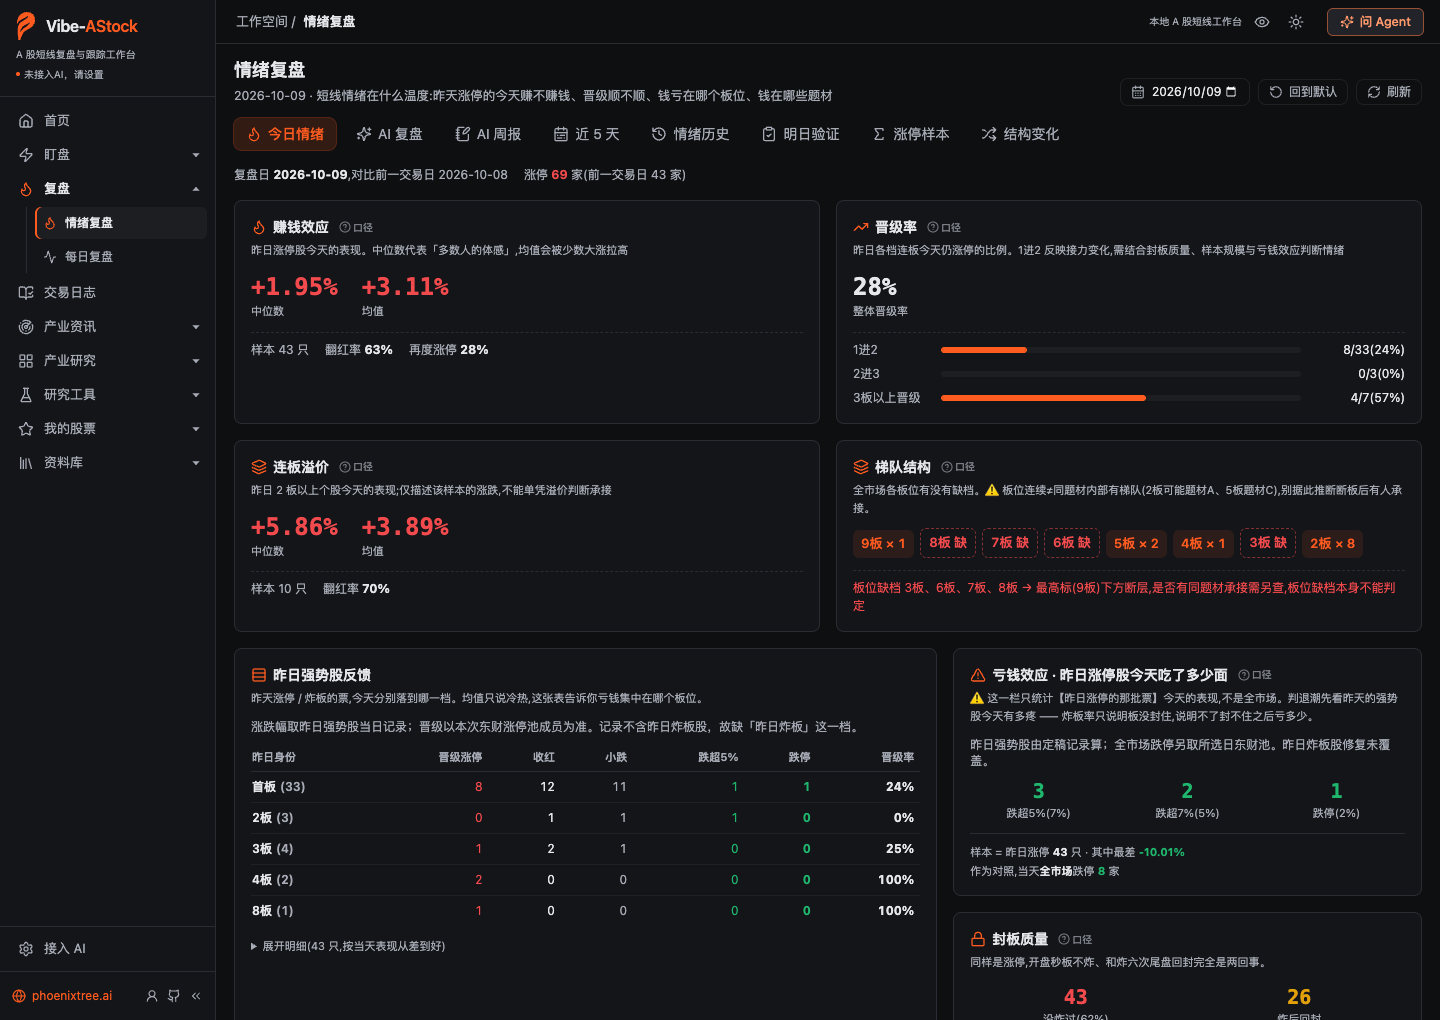
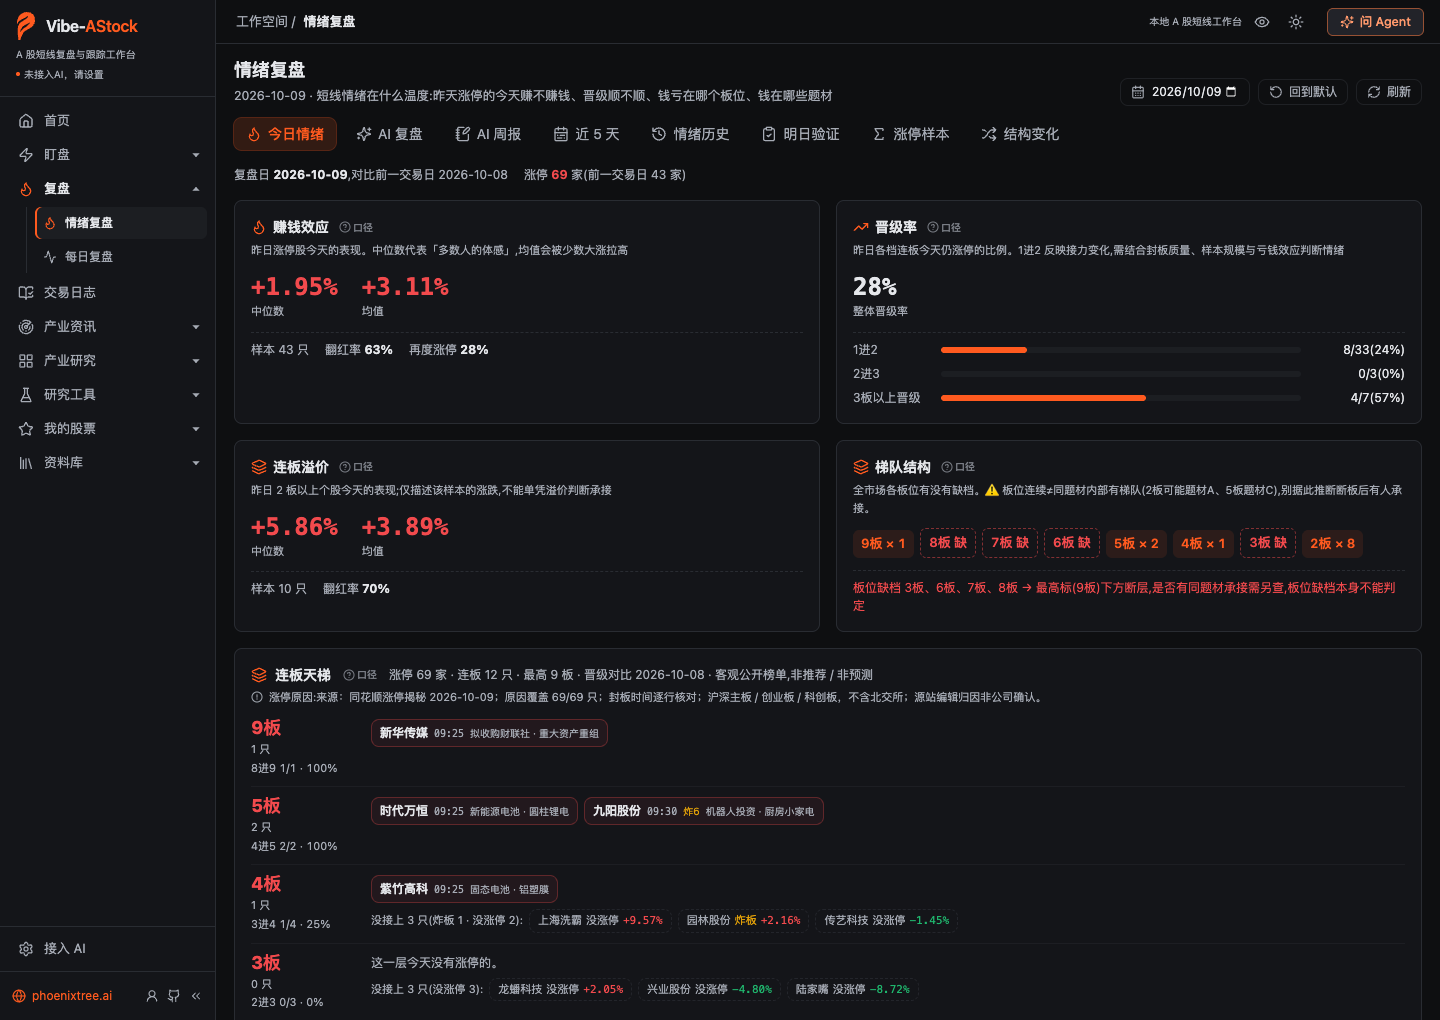
docs: README 补连板天梯、题材轮动截图与功能表说明，重拍今日情绪
- 功能表「情绪复盘」「提醒」两行补上连板天梯、题材轮动、盘前提醒（中英）
- 截图区加一行：连板天梯、题材轮动；今日情绪主图重拍（新版多了连板天梯）
- 截图说明补两张新图和拍摄情况

diff --git a/README_en.md b/README_en.md
@@ -54,6 +54,10 @@ Sentiment review · Today: whether yesterday's limit-up names made money today, 
 
 <table>
 <tr>
+<td width="50%" valign="top"><img src="assets/screenshots/2026-10-10/shortline-ladder.png" alt="Board ladder"><br><b>Board ladder</b>: who is at each streak height, how many names one level down yesterday made it up, and whether the rest hit limit-down, broke the seal, or never reached limit-up today</td>
+<td width="50%" valign="top"><img src="assets/screenshots/2026-10-10/shortline-rotation.png" alt="Theme rotation"><br><b>Theme rotation</b>: limit-up counts and ranks for each theme over the last 5 trading days, with streaks, returns after a gap, and first appearances marked; it describes the past and makes no forecast</td>
+</tr>
+<tr>
 <td width="50%" valign="top"><img src="assets/screenshots/2026-10-10/watch-live.png" alt="Watch · Live moves"><br><b>Watch · Live moves</b>: live readings and intraday moves for holdings, the watchlist, and yesterday's ladder (captured on a weekend, so it shows the market closed)</td>
 <td width="50%" valign="top"><img src="assets/screenshots/2026-10-10/watch-intraday.png" alt="Watch · Auction &amp; intraday"><br><b>Watch · Auction &amp; intraday</b>: how yesterday's limit-up names did in the auction, and the sentiment path across six snapshots</td>
 </tr>
@@ -121,7 +125,7 @@ The sidebar has 10 primary sections; those with several pages fold them into a s
 <tr><td nowrap>Home</td><td nowrap>—</td><td>China and global indices, your watchlist, and your holdings (market value, holdings P&amp;L, today's P&amp;L, prices refreshing on their own while markets are open) first; chat with AI below, and open features from the grouped directory</td></tr>
 <tr><td nowrap>Watch</td><td nowrap>Live moves</td><td>During the session: your holdings and watchlist (price, today's change, unrealized P&amp;L %), yesterday's limit-up ladder (how each name is doing today and whether it is sealed again), the top ten movers among stocks above 50 billion yuan in market cap, and yesterday's top ten by turnover; a move of 1.5% or more within 3 minutes is logged as a surge or drop, and touching or leaving the limit-up price as sealed or opened, with filters by size and scope. Refreshes on its own while the page is open and stops when you switch away</td></tr>
 <tr><td nowrap>Watch</td><td nowrap>Auction &amp; intraday</td><td>How yesterday's limit-up names opened in the 09:25 auction (median, share opening higher, by board level, the highest streak), the sentiment path across six snapshots (09:25 / 09:35 / 10:00 / 11:30 / 14:00 / 15:00: the median move of yesterday's limit-ups plus market-wide limit-ups, failed seals, and limit-downs at that moment), and last night's next-day checks against intraday readings. Snapshots are saved automatically at each time; a missed one cannot be filled in later</td></tr>
-<tr><td nowrap>Review</td><td nowrap>Sentiment review</td><td>How hot short-term sentiment is: the money-making effect, promotion rates, the streak premium, gaps in the board ladder, how yesterday's strong names did today, seal quality, the theme tree, and first-board names; an AI review written in five parts (sentiment, money, themes, the dragon-tiger list, leading names) plus a summary, with every number and citation checked by the app, the cited evidence one click away, and suggested conditions you can add to next-day checks in one click; plus the last 5 days, sentiment history, next-day checks (write conditions the night before, checked automatically after the next close), limit-up sample stats, and structural shifts</td></tr>
+<tr><td nowrap>Review</td><td nowrap>Sentiment review</td><td>How hot short-term sentiment is: the money-making effect, promotion rates, the board ladder, the streak premium, gaps in the ladder, how yesterday's strong names did today, seal quality, the theme tree, and first-board names; an AI review written in five parts (sentiment, money, themes, the dragon-tiger list, leading names) plus a summary, with every number and citation checked by the app, the cited evidence one click away, and suggested conditions you can add to next-day checks in one click; plus the last 5 days (theme heat, theme rotation, and the lineage of leading names), sentiment history, next-day checks (write conditions the night before, checked automatically after the next close), limit-up sample stats, and structural shifts</td></tr>
 <tr><td nowrap>Review</td><td nowrap>Daily review</td><td>Where the market stands at a glance: breadth, turnover, short-term sentiment (limit-ups / limit-downs / failed seals, how yesterday's limit-ups did today, promotion rates, limit-up streaks), where the indices sit over the longer term, margin balance, equity vs. bond yields, sector fund flows, and the Dragon-Tiger list; limit-up stocks grouped by industry and compared with the previous two trading days</td></tr>
 <tr><td nowrap>Trade journal</td><td nowrap>—</td><td>Log each of your A-share trades (trades with fills go into your holdings ledger, with P&amp;L worked out from the fills net of commission, stamp duty, and transfer fees; without fills you record just a P&amp;L %), matched automatically to that day's sentiment (strong / middling / weak) and where the stock stood (first board, streak, failed seal, never touched limit-up); see win rate and average per trade by sentiment, board, playbook, whether it followed the plan, and holding days. <strong>Risk &amp; discipline</strong> shows capital at risk from your planned stops, the equity curve, how your last 10 / 20 / 50 trades went, what unplanned trades cost, and breaches of your own rules; <strong>Review</strong> lists trades worth a second look, the best and worst each trade got to, and whether a losing day came from a wrong read or poor execution; <strong>Playbook cards</strong> write your setups down and split results by version. Stays on your machine and never goes to the AI</td></tr>
 <tr><td nowrap>Industry news</td><td nowrap>Intelligence radar</td><td>News, company filings, and event leads that warrant further checking</td></tr>
@@ -133,7 +137,7 @@ The sidebar has 10 primary sections; those with several pages fold them into a s
 <tr><td nowrap>Research tools</td><td nowrap>Candidate pool</td><td>Check your watchlist, holdings, or an index's constituents against conditions you set; each condition shows met, not met, or missing data; listed by code, not ranked</td></tr>
 <tr><td nowrap>My stocks</td><td nowrap>Watchlist and holdings</td><td>Two tabs. <strong>Watchlist</strong>: add companies in bulk by name, pinyin, or symbol, refresh quotes, and keep tracking them; A-shares show how far they are from the exchanges' abnormal-volatility thresholds, and stocks you hold are marked. <strong>Holdings</strong>: keep a transaction ledger, see positions, P&amp;L, and returns alongside quotes, run a portfolio checkup, and replay past drawdowns; this is not an order-entry tool. Click a stock name to open it in Company deep dive</td></tr>
 <tr><td nowrap>My stocks</td><td nowrap>Event calendar</td><td>Upcoming earnings, lock-up expiries, and ex-dividend dates for your watchlist and holdings, on one timeline with your ledger's verdict and review dates; every entry names its source</td></tr>
-<tr><td nowrap>My stocks</td><td nowrap>Reminders</td><td>After each A-share trading day closes, a close summary, watchlist changes, and criteria that have come due land in an inbox; optionally pushed to system notifications or Feishu / WeCom / DingTalk group bots</td></tr>
+<tr><td nowrap>My stocks</td><td nowrap>Reminders</td><td>Before each A-share trading day opens, a premarket reminder (overnight markets, filings and suspensions for streak names, today's IPOs); after the close, a close summary, watchlist changes, and criteria that have come due; all land in an inbox, optionally pushed to system notifications or Feishu / WeCom / DingTalk group bots</td></tr>
 <tr><td nowrap>Library</td><td nowrap>My reports</td><td>Import, read, and search your own documents; ask questions and check the source text</td></tr>
 <tr><td nowrap>Library</td><td nowrap>Research records</td><td>Revisit, search, and manage research, backtest, and debate reports by date</td></tr>
 <tr><td nowrap>Connect AI</td><td nowrap>—</td><td>Choose a subscription or model API; once tested, it is shared across the product; pinned to the bottom of the sidebar</td></tr>

diff --git a/assets/screenshots/2026-10-10/README.md b/assets/screenshots/2026-10-10/README.md
@@ -2,22 +2,22 @@
 
 拍摄日期 / Captured: 2026-10-10 至 10-11（周末，休市 / weekend, market closed）。
 
-开发版前端，由本地开发服务和产品自带的本地服务运行，数据目录是单独新建的演示目录；无头 Chrome 用单独的临时配置，视口 1440 × 1020，未接入 AI。除首次接入弹窗那张外，每张拍摄前都点了弹窗里的「暂不接入，先浏览」把它关掉；拍「从旧版导入」前清空了输入框里自动填好的本机路径。没有注入假回复、修改页面文字或合成界面，拍摄时没有调用模型，也没有读取私人持仓、研报或账号凭据。图片不带任何元数据。
+开发版前端，由本地开发服务和产品自带的本地服务运行，数据目录是单独新建的演示目录；无头 Chrome 用单独的临时配置，视口 1440 × 1020，未接入 AI。除首次接入弹窗那张外，每张拍摄前都点了弹窗里的「暂不接入，先浏览」把它关掉（10-11 补拍时弹窗已不再出现）；拍「从旧版导入」前清空了输入框里自动填好的本机路径。没有注入假回复、修改页面文字或合成界面，拍摄时没有调用模型，也没有读取私人持仓、研报或账号凭据。图片不带任何元数据。
 
 - **示例数据**：自选 5 只；持仓 3 笔期初流水；交易日志里 7 买 7 卖的示例成交、7 条标注、1 张模式卡；1 条论点、2 条判据。都是拍摄前通过产品自己的台账接口录入的，每条备注都写着「示例数据」或「示例」，价格取在当天真实的最高价和最低价之间，不是真实交易。交易日志的「按情绪环境」分组用的是这几天真实的情绪读数。
 - **AI 复盘 / AI 周报**：2026-10-10 在开发验证时用 Claude Code 订阅给 2026-10-09 实际写的版本（复盘 4 版、周报 3 版），原样复制进演示目录，没有改动。「明日验证」里 2026-10-09 写下的 4 条条件，是从其中一版 AI 复盘建议的条件一键加进去的；下一个交易日（10-12）还没收盘，所以没有对账结果。
 - **竞价与盘中**：旧版（v1.x）在 2026-09-23 交易时段存下的盘中快照，用「从旧版导入」导进演示目录；旧快照没有「1进2」这一项，所以那一列显示「—」。
 - **研究报告**：2026-10-08 开发验证时用 Claude Code 订阅跑完的一份中际旭创六阶段报告，原样复制进演示目录，没有改动。
-- **其余内容**（指数、情绪读数、涨停样本、复盘、K 线、资讯、GPU 租金、事件日历、候选池）都是拍摄时页面自己取到的公开数据快照。
+- **其余内容**（指数、情绪读数、连板天梯、题材轮动、涨停样本、复盘、K 线、资讯、GPU 租金、事件日历、候选池）都是拍摄时页面自己取到的公开数据快照。今日情绪、连板天梯、题材轮动三张是 10-11 新功能做完后重拍 / 补拍的；题材轮动那张只裁出了这一块。
 - 候选池的条件（沪深300、市盈率 0–15 倍、市净率不超过 1.5 倍）只是为了演示核对过程，不是选股建议。
 
-Development-build frontend, served by the local dev server and the product's own local server with a separate, newly created demo data directory. Headless Chrome with a separate temporary profile, viewport 1440 × 1020, no AI connected. Except for the first-connection dialog shot itself, the first-run dialog was closed with "暂不接入，先浏览" (browse without connecting) before each shot; before the "Import from the old version" shot, the local path prefilled in its input was cleared. No fabricated replies, DOM text replacements, or composited UI; no model calls during capture and no access to private holdings, reports, or credentials. The images carry no metadata.
+Development-build frontend, served by the local dev server and the product's own local server with a separate, newly created demo data directory. Headless Chrome with a separate temporary profile, viewport 1440 × 1020, no AI connected. Except for the first-connection dialog shot itself, the first-run dialog was closed with "暂不接入，先浏览" (browse without connecting) before each shot (it no longer appeared during the October 11 retakes); before the "Import from the old version" shot, the local path prefilled in its input was cleared. No fabricated replies, DOM text replacements, or composited UI; no model calls during capture and no access to private holdings, reports, or credentials. The images carry no metadata.
 
 - **Demo data**: 5 watchlist entries; 3 opening-position transactions; 7 buys and 7 sells of demo trades in the trade journal, 7 trade labels, and 1 playbook card; 1 thesis and 2 criteria. All were entered through the product's own ledger API before capture; every note says "示例数据" or "示例" (demo data / example), prices fall between that day's real high and low, and none of it is a real trade. The journal's "by sentiment" split uses the real sentiment readings for those days.
 - **AI review / AI weekly review**: versions actually written on October 10, 2026 with a Claude Code subscription for October 9 during development testing (4 review versions, 3 weekly versions), copied into the demo directory unchanged. The 4 next-day conditions written on October 9 were added in one click from the conditions one of those AI reviews suggested; the next trading day (October 12) had not closed yet, so they have no result.
 - **Auction & intraday**: snapshots the old version (v1.x) saved during the September 23, 2026 session, brought into the demo directory with "Import from the old version"; the old snapshots have no first-to-second-board field, so that column shows "—".
 - **Research report**: a complete six-stage report on Zhongji Innolight (300308) produced on October 8, 2026 during development testing with a Claude Code subscription, copied into the demo directory unchanged.
-- **Everything else** (indices, sentiment readings, limit-up samples, daily review, candlestick chart, news, GPU rental rates, event calendar, candidate pool) is the public data the pages fetched at capture time.
+- **Everything else** (indices, sentiment readings, board ladder, theme rotation, limit-up samples, daily review, candlestick chart, news, GPU rental rates, event calendar, candidate pool) is the public data the pages fetched at capture time. The Today, board ladder, and theme rotation shots were retaken or added on October 11 after those features were built; the theme rotation shot is cropped to that block.
 - The candidate-pool conditions (CSI 300, P/E 0–15, P/B at most 1.5) only demonstrate the checking process; they are not a stock pick.
 
 <table>
@@ -26,6 +26,8 @@ Development-build frontend, served by the local dev server and the product's own
 </thead>
 <tbody>
 <tr><td nowrap><a href="shortline-today.png">shortline-today.png</a></td><td>情绪复盘 · 今日情绪 / Sentiment review · Today</td></tr>
+<tr><td nowrap><a href="shortline-ladder.png">shortline-ladder.png</a></td><td>情绪复盘 · 连板天梯 / Sentiment review · Board ladder</td></tr>
+<tr><td nowrap><a href="shortline-rotation.png">shortline-rotation.png</a></td><td>情绪复盘 · 近 5 天 · 题材轮动（只裁出这一块）/ Sentiment review · Last 5 days · Theme rotation (cropped to this block)</td></tr>
 <tr><td nowrap><a href="watch-live.png">watch-live.png</a></td><td>盯盘 · 实时动态 / Watch · Live moves</td></tr>
 <tr><td nowrap><a href="watch-intraday.png">watch-intraday.png</a></td><td>盯盘 · 竞价与盘中 / Watch · Auction &amp; intraday</td></tr>
 <tr><td nowrap><a href="shortline-review.png">shortline-review.png</a></td><td>AI 复盘 / AI review</td></tr>

diff --git a/README.md b/README.md
@@ -52,6 +52,10 @@ v2.0.0 起和 [Vibe Research](https://github.com/simonlin1212/Vibe-Research) 用
 
 <table>
 <tr>
+<td width="50%" valign="top"><img src="assets/screenshots/2026-10-10/shortline-ladder.png" alt="连板天梯"><br><b>连板天梯</b>：每个高度有谁，昨天下面一层几只接上了，没接上的今天是跌停、炸板还是没涨停</td>
+<td width="50%" valign="top"><img src="assets/screenshots/2026-10-10/shortline-rotation.png" alt="题材轮动"><br><b>题材轮动</b>：近 5 个交易日每个题材的涨停只数和名次，标出连续、回流、首次出现；只描述过去，不预测</td>
+</tr>
+<tr>
 <td width="50%" valign="top"><img src="assets/screenshots/2026-10-10/watch-live.png" alt="盯盘 · 实时动态"><br><b>盯盘 · 实时动态</b>：持仓、自选、昨日梯队的当下读数和盘中异动（拍摄时是周末，显示休市）</td>
 <td width="50%" valign="top"><img src="assets/screenshots/2026-10-10/watch-intraday.png" alt="盯盘 · 竞价与盘中"><br><b>盯盘 · 竞价与盘中</b>：昨日涨停股的竞价强弱，六个时点的情绪路径</td>
 </tr>
@@ -119,7 +123,7 @@ v2.0.0 起和 [Vibe Research](https://github.com/simonlin1212/Vibe-Research) 用
 <tr><td nowrap>首页</td><td nowrap>—</td><td>先看大盘与全球指数、我的自选、我的持仓（市值、持仓盈亏、当日盈亏，开盘时价格自动刷新），再往下和 AI 对话，从分类目录进入各个功能</td></tr>
 <tr><td nowrap>盯盘</td><td nowrap>实时动态</td><td>盘中盯着持仓与自选（现价、今日涨跌、浮动盈亏 %）、昨日梯队（昨天涨停的票今天涨跌、封没封）、500 亿以上大票的涨幅前十、昨日成交额前十；3 分钟内涨跌超 1.5% 记急拉 / 急跌，碰到或离开涨停价记封板 / 开板，异动按幅度和范围筛。页面开着就自动刷新，切走就停</td></tr>
 <tr><td nowrap>盯盘</td><td nowrap>竞价与盘中</td><td>昨日涨停股 09:25 的竞价强弱（中位、高开占比、分板位、最高标），09:25 / 09:35 / 10:00 / 11:30 / 14:00 / 15:00 六个时点的情绪路径（昨日涨停股中位涨幅 + 当时全市场涨停 / 炸板 / 跌停），昨晚写的明日验证条件拿盘中读数先对一对。快照由程序在时点自动存，过了时点补不回来</td></tr>
-<tr><td nowrap>复盘</td><td nowrap>情绪复盘</td><td>短线情绪在什么温度：赚钱效应、晋级率、连板溢价、梯队断层、昨日强势股反馈、封板质量、题材事件树和首板名单；AI 复盘按情绪、资金、题材、龙虎榜、龙头分五段写再汇总，每个数字和引用由程序核对、可以逐条查看依据，建议的验证条件一键加进明日验证；另有近 5 天、情绪历史、明日验证（头天晚上写条件，下一个交易日收盘后自动对账）、涨停样本统计和结构变化</td></tr>
+<tr><td nowrap>复盘</td><td nowrap>情绪复盘</td><td>短线情绪在什么温度：赚钱效应、晋级率、连板天梯、连板溢价、梯队断层、昨日强势股反馈、封板质量、题材事件树和首板名单；AI 复盘按情绪、资金、题材、龙虎榜、龙头分五段写再汇总，每个数字和引用由程序核对、可以逐条查看依据，建议的验证条件一键加进明日验证；另有近 5 天（题材热度、题材轮动、龙头谱系）、情绪历史、明日验证（头天晚上写条件，下一个交易日收盘后自动对账）、涨停样本统计和结构变化</td></tr>
 <tr><td nowrap>复盘</td><td nowrap>每日复盘</td><td>打开就看市场处在什么状态：涨跌面、量能、短线情绪（涨停 / 跌停 / 炸板、昨日涨停今日表现、晋级、连板股）、指数中长期位置、两融、股债收益率、行业资金和龙虎榜；涨停股按行业分档并和前两个交易日比</td></tr>
 <tr><td nowrap>交易日志</td><td nowrap>—</td><td>记下自己的每笔 A 股交易（有成交明细的写进持仓流水，盈亏按流水扣掉佣金、印花税、过户费算；没有明细的只记盈亏 %），自动对上入场那天的情绪强中弱和当时板位（首板、连板、炸板、没碰涨停），按情绪环境、板位、打法、是否按计划、持有天数分组看胜率和平均每笔；<strong>风险与纪律</strong>看按计划止损估算的在险资金、权益曲线、最近 10 / 20 / 50 笔的状态、计划外交易的代价和自己的规矩有没有违反；<strong>复查</strong>列出值得回头看的单子、最大浮盈浮亏、看错了还是没执行好；<strong>模式卡</strong>把自己的打法写下来，按版本分段看业绩。只存在本机，不发给 AI</td></tr>
 <tr><td nowrap>产业资讯</td><td nowrap>资讯雷达</td><td>新闻、公司公告与事件线索，找出需要进一步核对的信息</td></tr>
@@ -131,7 +135,7 @@ v2.0.0 起和 [Vibe Research](https://github.com/simonlin1212/Vibe-Research) 用
 <tr><td nowrap>研究工具</td><td nowrap>候选池</td><td>在自选、持仓或指数成分股里按你设的条件逐只核对，每条写明满足、不满足还是缺数据；按代码排列，不排名</td></tr>
 <tr><td nowrap>我的股票</td><td nowrap>自选与持仓</td><td>两个分页。<strong>自选</strong>按名称、拼音或代码批量添加，刷新行情、持续跟踪，A 股显示离交易所异常波动标准还有多远，已持有的标「持有」；<strong>持仓</strong>按交易流水记账，结合行情看持仓、盈亏和收益率，做持仓体检、回看历史大跌期，不能下单交易。点股票名进个股深挖</td></tr>
 <tr><td nowrap>我的股票</td><td nowrap>事件日历</td><td>自选和持仓接下来的财报、解禁、除权除息，和台账里的裁决点、复核日排在一条时间轴上，每条带来源</td></tr>
-<tr><td nowrap>我的股票</td><td nowrap>提醒</td><td>A 股交易日收盘后自动整理收盘摘要、自选变化和到期的判据，放进收件箱，可推到系统通知或飞书 / 企业微信 / 钉钉群</td></tr>
+<tr><td nowrap>我的股票</td><td nowrap>提醒</td><td>A 股交易日开盘前整理盘前提醒（隔夜外围、连板股公告与停复牌、当天新股），收盘后整理收盘摘要、自选变化和到期的判据，放进收件箱，可推到系统通知或飞书 / 企业微信 / 钉钉群</td></tr>
 <tr><td nowrap>资料库</td><td nowrap>我的研报</td><td>导入、查阅和检索自己的资料，围绕资料提问并核对原文</td></tr>
 <tr><td nowrap>资料库</td><td nowrap>研究记录</td><td>按时间回看、搜索和管理研究、回测与辩论报告</td></tr>
 <tr><td nowrap>接入 AI</td><td nowrap>—</td><td>选择订阅或模型 API，测试成功后全站共用；固定在侧栏底部</td></tr>
